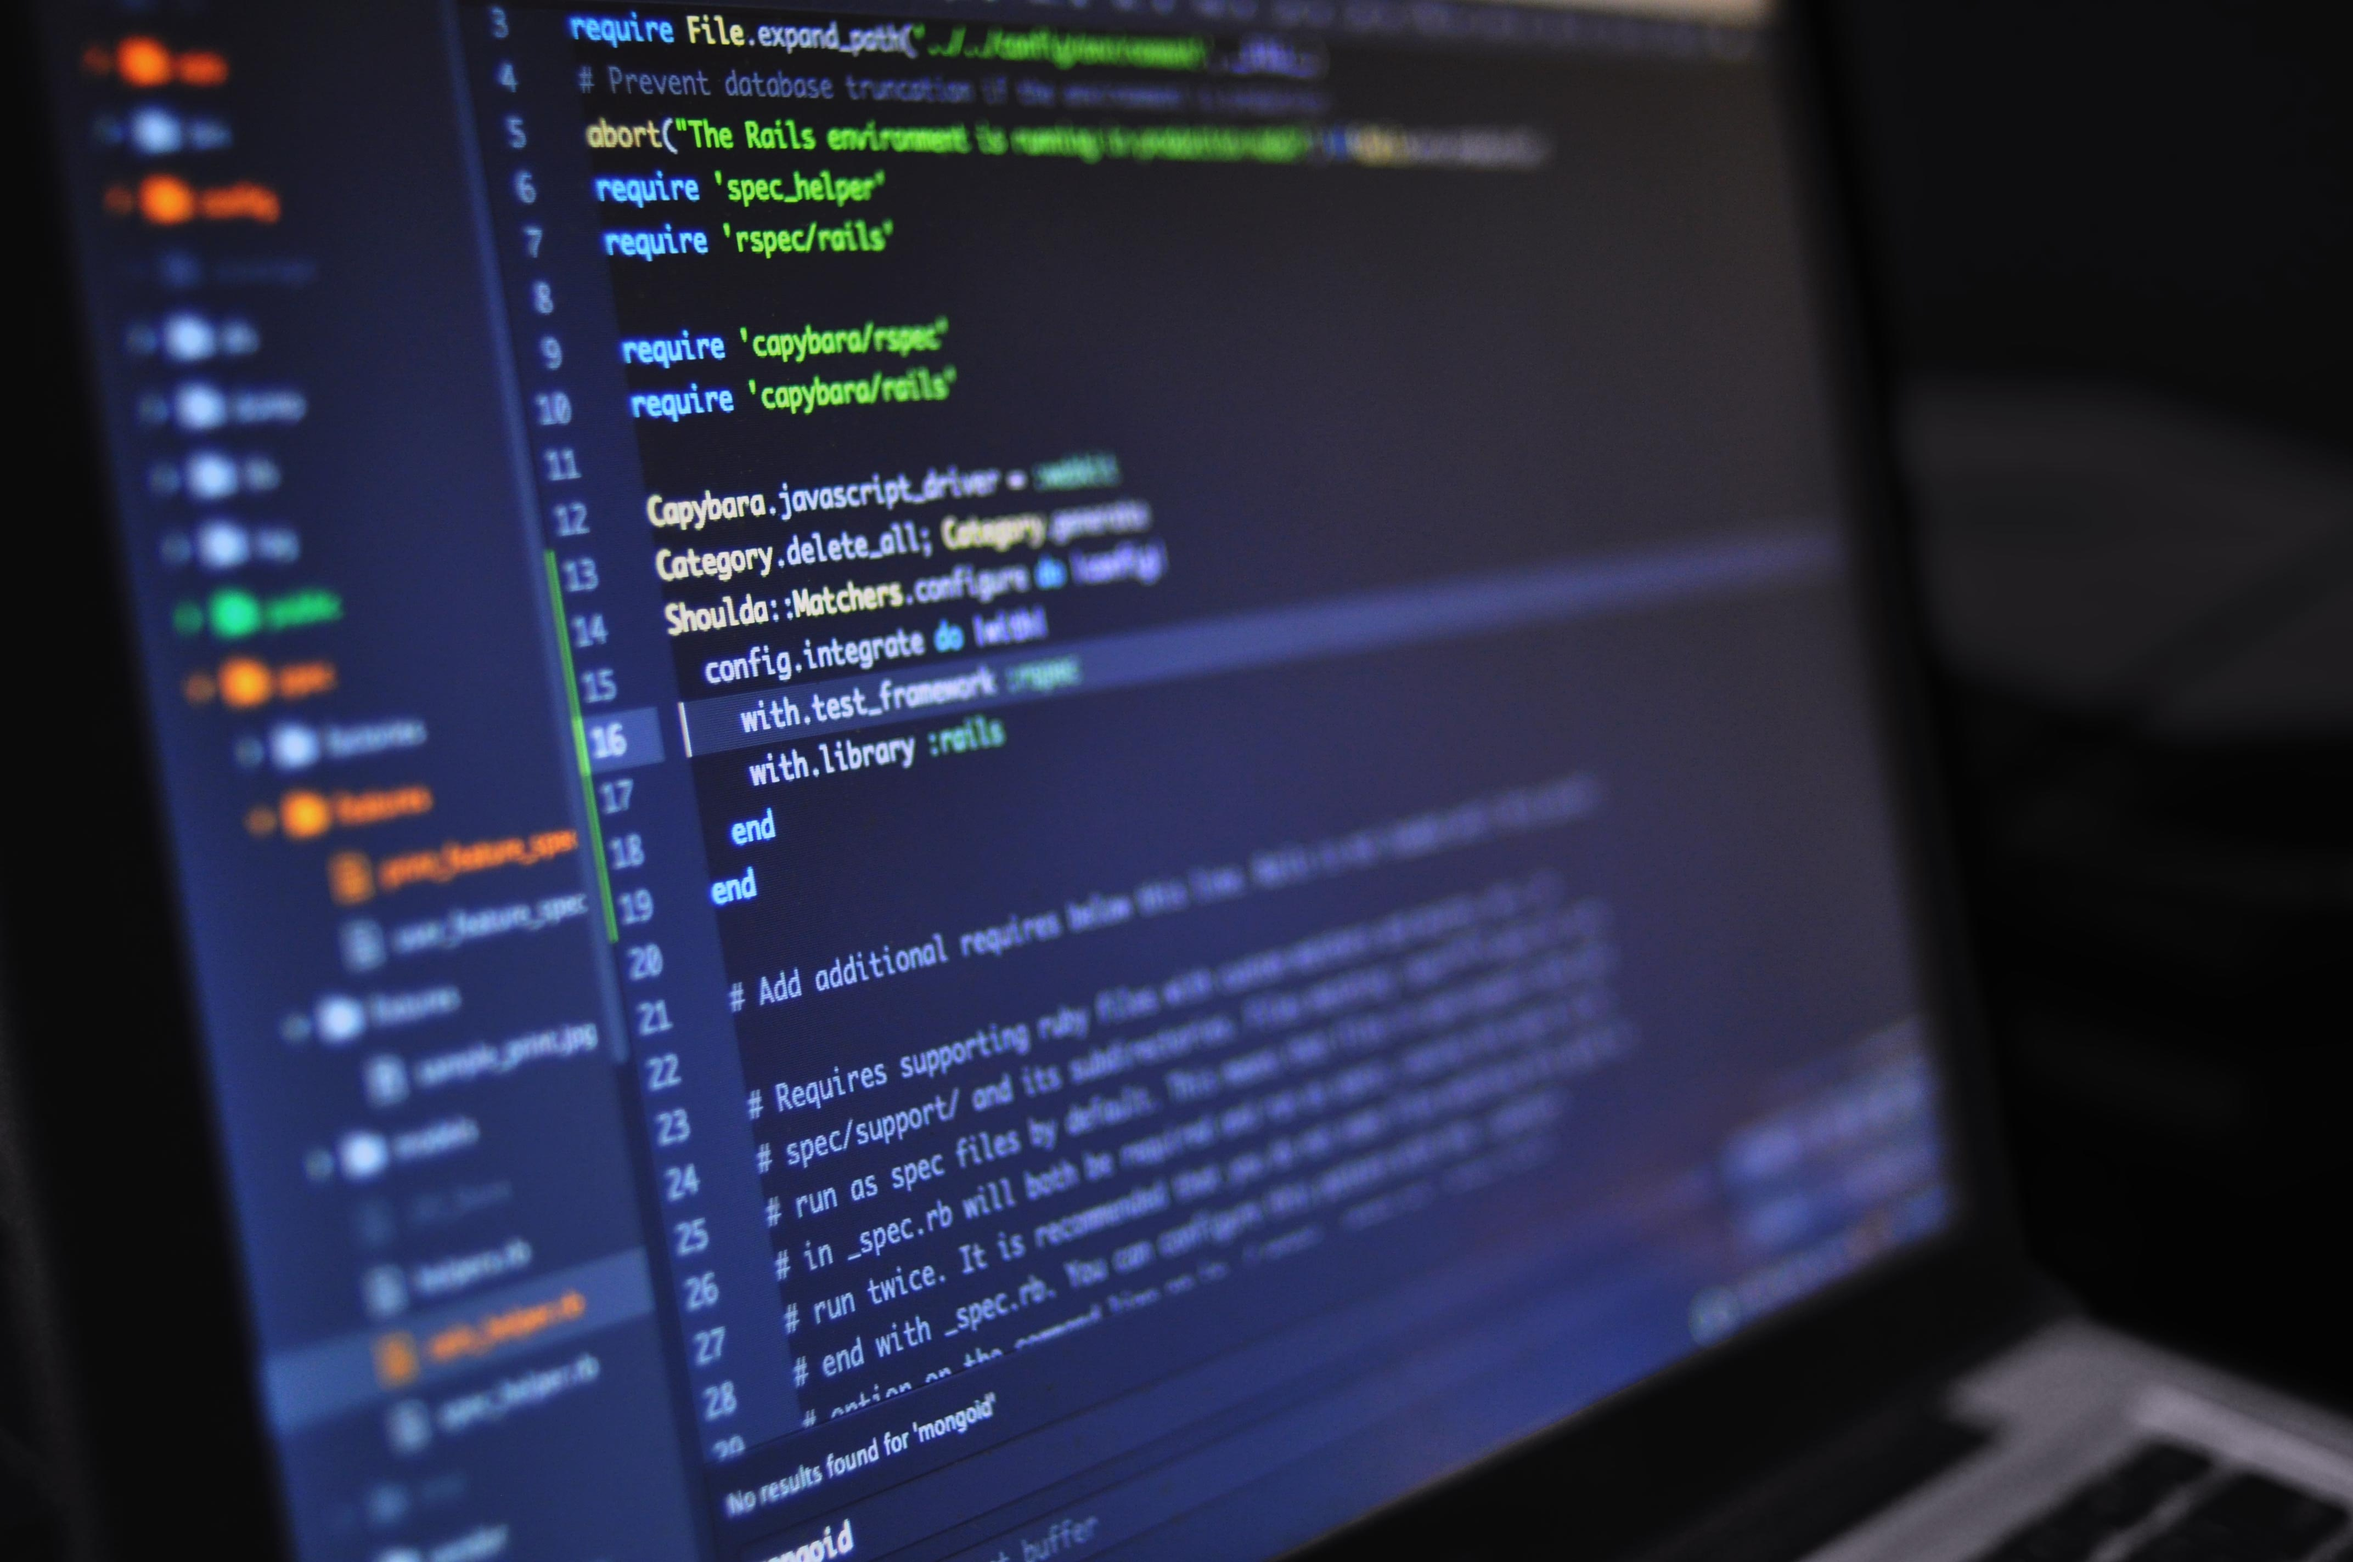
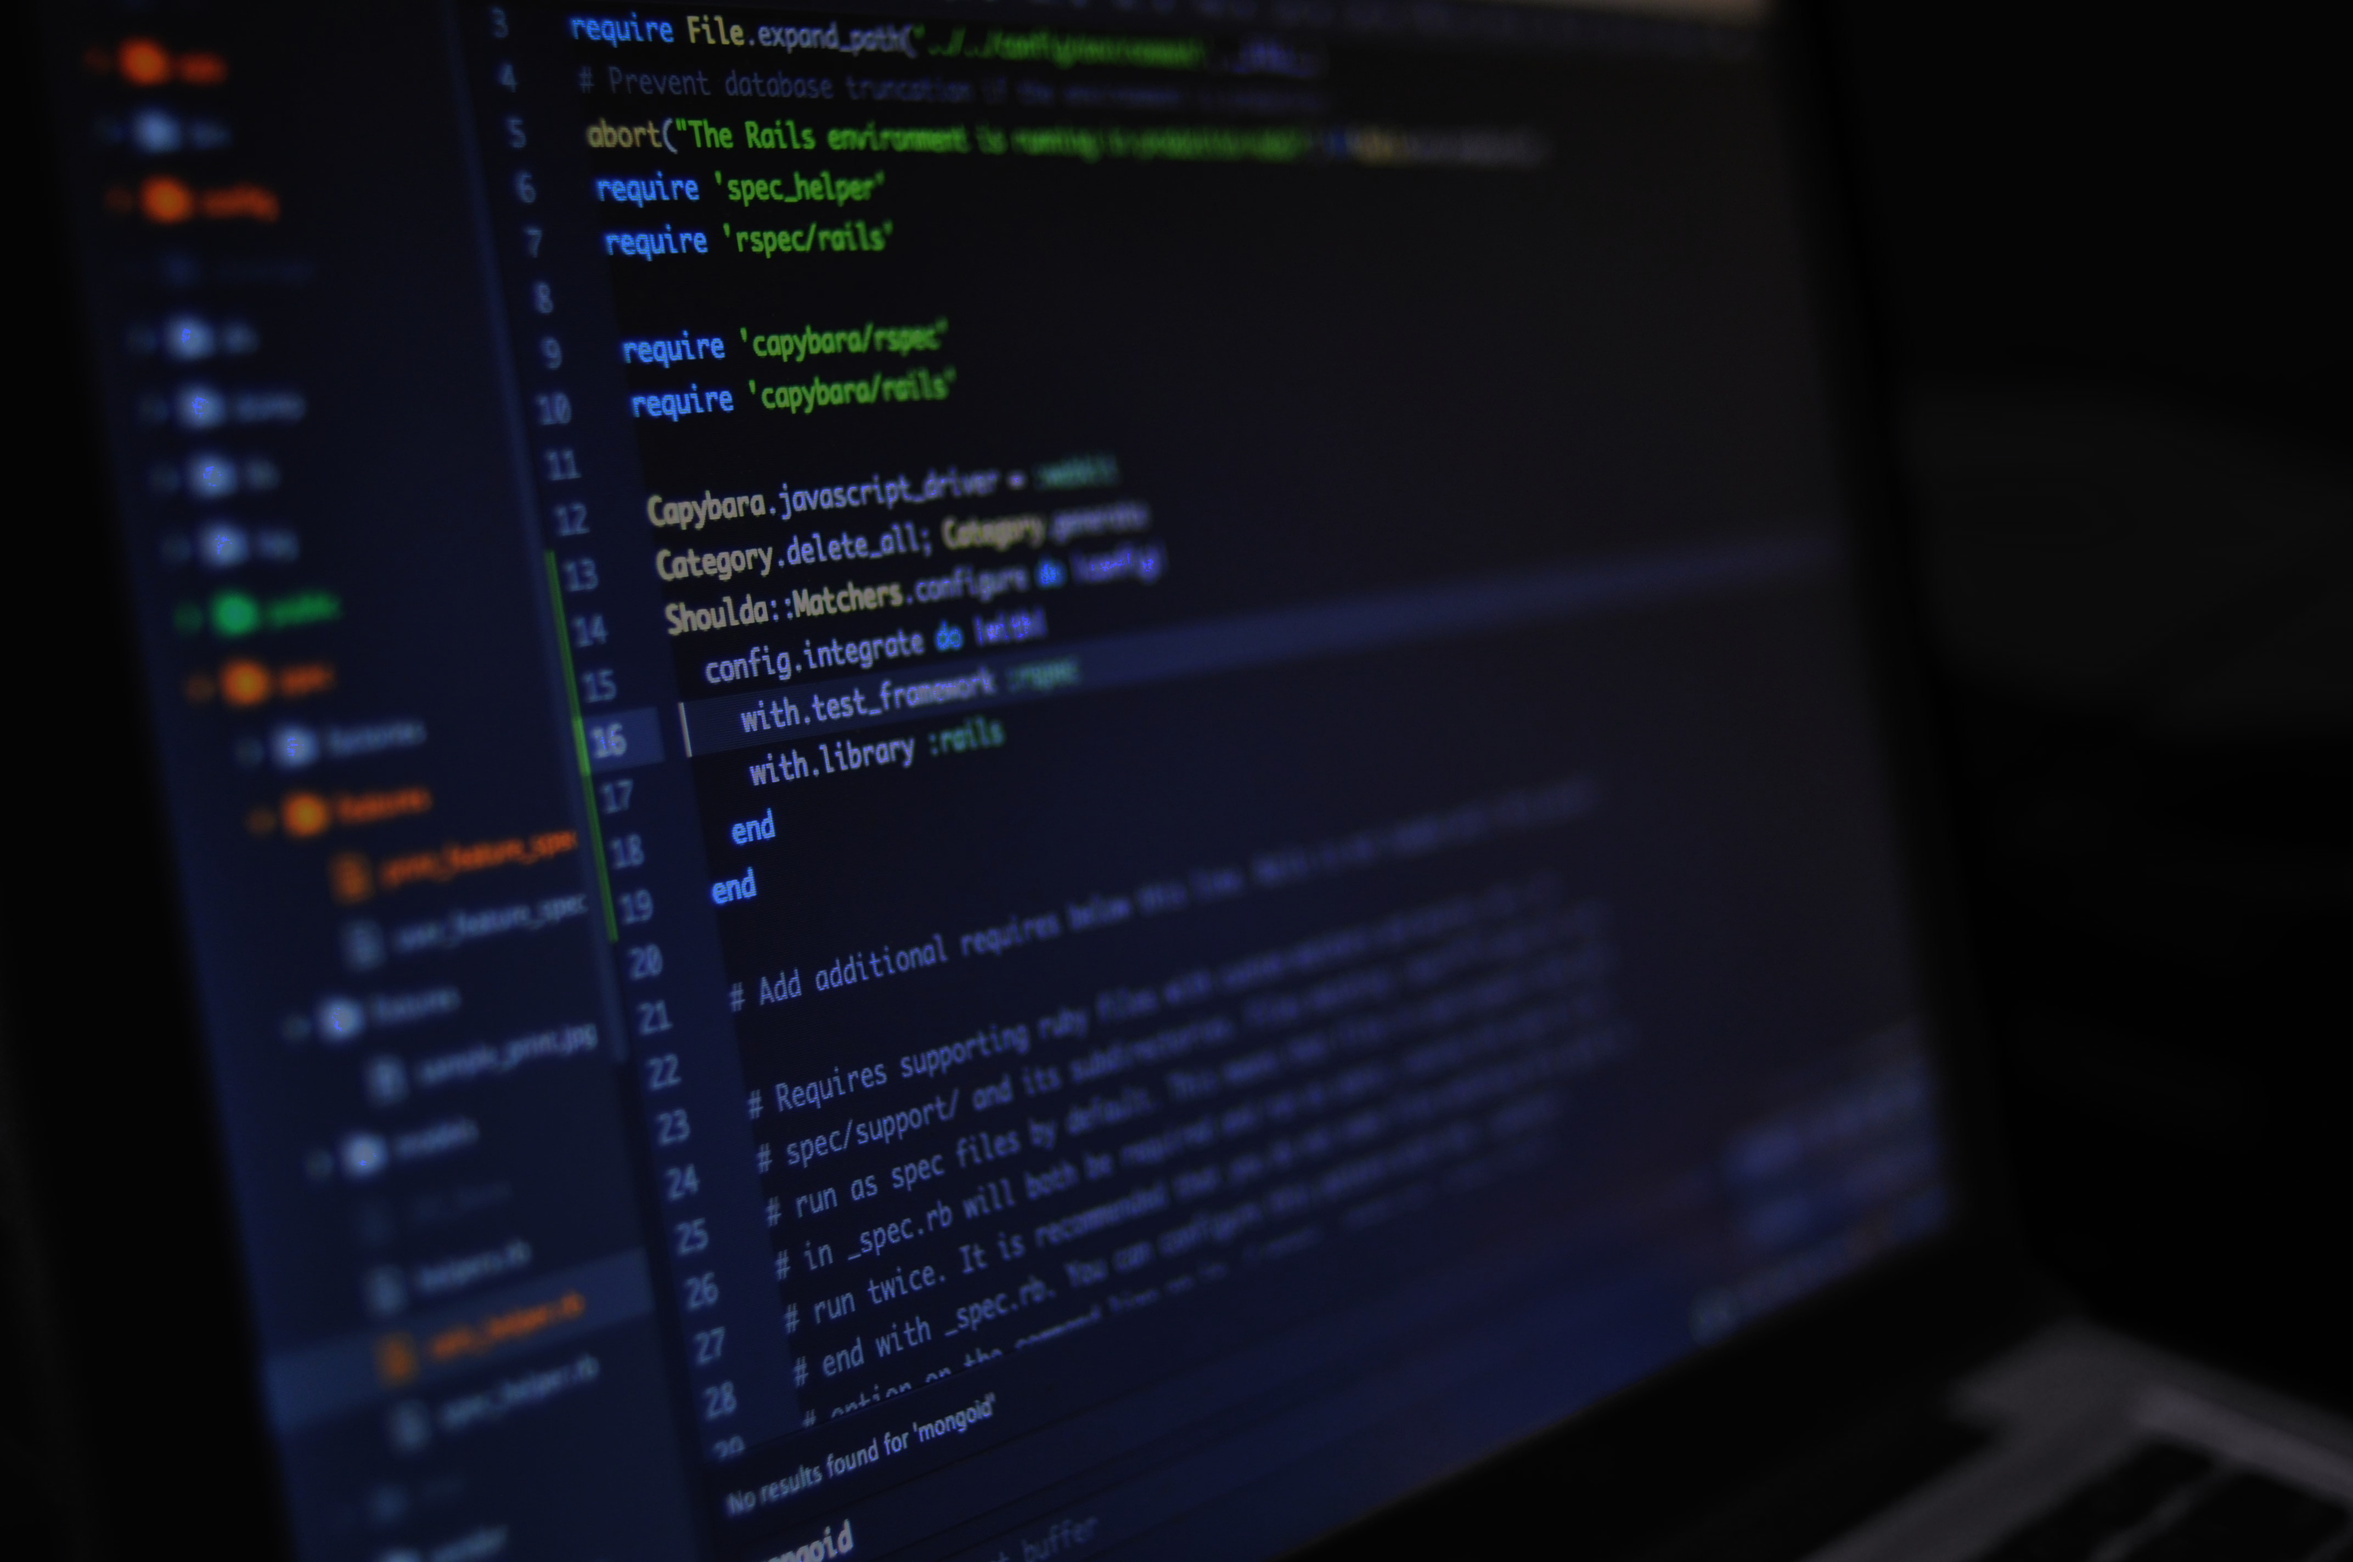
Darkmode

diff --git a/style.css b/style.css
@@ -1,3 +1,8 @@
+* {
+    margin:0;
+    padding:0;
+}
+
 /* Body ***************************************************/
 
 html, body {
@@ -19,10 +24,10 @@ li {
     list-style-type: none;
 }
 
-h1, h2, h3 {
+h1, h2, h3, h4, p {
     font-family: Arial, Helvetica, sans-serif;
     font-weight: 600;
-    color: black;
+    color: white;
     text-transform: uppercase;
 }
 
@@ -33,9 +38,9 @@ h3 {
 }
 
 hr {
-    width: 30px;
-    height: 3px;
-    background: #494949;
+    width: 50px;
+    height: 4px;
+    background: #757575;
     border: 0px;
     margin: 0 auto 40px auto;
 }
@@ -76,7 +81,7 @@ header {
 
 header nav {
     float: right;
-    margin: 10px 50px 0px 0px;
+    margin: 25px 50px 0px 0px;
 }
 
 header nav ul li {
@@ -102,19 +107,15 @@ header nav ul li a {
 }
 
 #home h1 {
-    margin: 240px auto 0px auto;
-    font-size: 110px;
-}
-
-#home h2 {
-    margin: 0px auto 0px auto;
-    font-size: 25px;
+    margin: 40vh auto 0px auto;
+    font-size: 75px;
+    color: #f0f0f0;
 }
 
 #home img {
     width: 32px;
-    margin-top: 75vh;
-    opacity: 0.7;
+    margin-top: 40vh;
+    opacity: 0.75;
 }
 
 #home img:hover {
@@ -122,6 +123,10 @@ header nav ul li a {
 }
 
 /* About ***************************************************/
+
+#about{
+    background-color: black;
+}
 
 #about img {
     width: 240px;
@@ -135,18 +140,19 @@ header nav ul li a {
 }
 
 #about h4 {
+    margin-top: 10px;
     font-size: 25px;
 }
 
 #about p {
-    width: 700px;
+    width: 800px;
     margin: 0 auto 0 auto;
 }
 
-/* News ***************************************************/
+/* projects ***************************************************/
 
-#news {
-    background: #f0f0f0;
+#projects {
+    background: rgb(10, 10, 10);
 }
 
 #articles {
@@ -154,17 +160,17 @@ header nav ul li a {
     margin: 0 auto 0 auto;
 }
 
-#articles ul {
+#projects ul {
     padding: 0;
 }
 
-#articles ul li {
+#projects ul li {
     width: 33.3%;
     float: left;
     margin-bottom: 20px;
 }
 
-#articles ul li:hover {
+#projects ul li:hover {
     transform: scale(1.1);
     -webkit-transform: scale(1.1);
     -moz-transform: scale(1.1);
@@ -172,31 +178,29 @@ header nav ul li a {
     box-shadow: 0px 5px 5px rgba(0, 0, 0, 0.5);
 }
 
-#articles img {
+#projects img {
     width: 280px;
     height: 170px;
     border-radius: 5px;
 }
 
-/* Contact ***************************************************/
+/* social ***************************************************/
 
-
-#socialmedia {
-    width: 300px;
-    margin: 0 auto 0 auto;
+#social {
+    background: black;
 }
 
-#socialmedia ul {
+#social ul {
     padding: 0;
 }
 
-#socialmedia ul li {
+#social ul li {
     width: 25%;
     float: left;
     margin-bottom: 20px;
 }
 
-#socialmedia img:hover {
+#social img:hover {
     transform: scale(1.1);
     -webkit-transform: scale(1.1);
     -moz-transform: scale(1.1);
@@ -204,20 +208,14 @@ header nav ul li a {
     box-shadow: 0px 5px 5px rgba(0, 0, 0, 0.5);
 }
 
-#socialmedia img {
+#social img {
     width: 60px;
     height: 60px;
     border-radius: 5px;
 }
 
-/* Impressum ***************************************************/
-
-#impressum {
-    background: #f0f0f0;
-}
-
-#impressum p {
-    width: 700px;
+#socialmedia{
+    width: 300px;
     margin: 0 auto 0 auto;
 }
 

diff --git a/index.html b/index.html
@@ -5,6 +5,7 @@
         <title>Florian Westphal</title>
         <meta charset="utf-8">
         <link rel="stylesheet" type="text/css" href="style.css">
+        <meta name="robots" content="noindex">
     </head>
 
     <body>
@@ -20,10 +21,9 @@
             <nav>
                 <ul>
                     <li><a href="#home">Home</a></li>
-                    <li><a href="#about">Über mich</a></li>
-                    <li><a href="#projects">Projekte</a></li>
-                    <li><a href="#contact">Kontakt</a></li>
-                    <li><a href="#impressum">Impressum</a></li>
+                    <li><a href="#about">About Me</a></li>
+                    <li><a href="#projects">Projects</a></li>
+                    <li><a href="#social">Social</a></li>
                 </ul>
             </nav>
 
@@ -33,6 +33,7 @@
 
         <section id="home">
             <hr>
+            <h1>Welcome to my Website</h1>
             <a href="#about">
                 <img src="img/arrow.png" alt="Pfeil">
             </a>
@@ -41,17 +42,20 @@
         <!-------------About-------------------------------------->
 
         <section id="about">
-            <h3>Über mich</h3>
+            <h3>About Me</h3>
             <hr>
             <img src="img/logo.png" alt="Bild">
             <h4>Florian Westphal</h4>
-            <p>Beschreibung</p>
+            <br>
+            <p> I'am a German software developer. <br>
+                I've been developing my own little games and programs since I was young. <br>
+                After graduating from high school, I did an apprenticeship at Dräger in Lübeck.</p>
         </section>
 
         <!-------------projects-------------------------------------->
 
         <section id="projects">
-            <h3>Projekte</h3>
+            <h3>Projects</h3>
             <hr>
             <div id="articles">
                 <ul>
@@ -96,10 +100,10 @@
             </div>
         </section>
 
-        <!-------------Contact-------------------------------------->
+        <!-------------Social-------------------------------------->
 
-        <section id="contact">
-            <h3>Kontakt</h3>
+        <section id="social">
+            <h3>Social</h3>
             <hr>
             <div id="socialmedia">
                 <ul>
@@ -126,14 +130,6 @@
                     
                 </ul>
             </div>
-        </section>
-
-        <!-------------Contact-------------------------------------->
-
-        <section id="impressum">
-            <h3>Impressum</h3>
-            <hr>
-
         </section>
 
         <!-------------Footer-------------------------------------->
